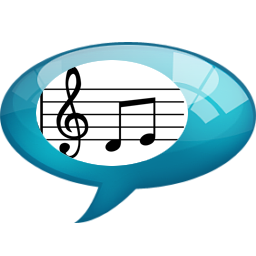
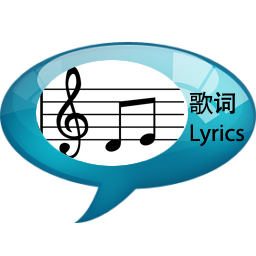
donate button lyric button

Changed region(s): [[0.7188, 0.3438, 0.9375, 0.4688], [0.7188, 0.4688, 0.9688, 0.5938]]

diff --git a/index.html b/index.html
@@ -82,8 +82,8 @@
 <div id="subtitlenav">
   <ul>
     
-    <li><a href="https://github.com/ganlinzhiyin/ganlinzhiyin.github.com/raw/master/%E6%AD%8C%E8%AF%8D%20Lyrics.zip" rel="bookmark" title="Download英文歌词"><span style="font-family : Arial, Helvetica, sans-serif;color: #ffc641;"></span><br /><span style="font-family : Arial, Helvetica, sans-serif;color: #55BAC6;"> 歌词 Lyrics<br /><BUTTON TYPE="submit"><img src="speech bubble.png" width="107" height="99" border="0" align="absmiddle"></BUTTON></span></li>
-    <li><a href="http://github.com/ganlinzhiyin/ganlinzhiyin.github.com/raw/master/ganlinzhiyin.zip" rel="bookmark" title="Download Album"><span style="font-family : Arial, Helvetica, sans-serif;color: #55BAC6;">买专辑</span><br /><span style="font-family : Arial, Helvetica, sans-serif;color: #ffc641;">Buy<br />Album</a></li>
+    <li><a href="https://github.com/ganlinzhiyin/ganlinzhiyin.github.com/raw/master/%E6%AD%8C%E8%AF%8D%20Lyrics.zip" rel="bookmark" title="Download英文歌词"><span style="font-family : Arial, Helvetica, sans-serif;color: #ffc641;"></span><br /><span style="font-family : Arial, Helvetica, sans-serif;color: #55BAC6;"> <br /><BUTTON TYPE="submit"><img src="speech bubble.png" width="85" height="72" border="0" align="absmiddle"></BUTTON></span></li>
+    <li><a href="http://github.com/ganlinzhiyin/ganlinzhiyin.github.com/raw/master/ganlinzhiyin.zip" rel="bookmark" title="Download Album"><span style="font-family : Arial, Helvetica, sans-serif;color: #55BAC6;"></span><br /><span style="font-family : Arial, Helvetica, sans-serif;color: #ffc641;"><BUTTON TYPE="submit"><img src="donate button.png" width="93" height="42" border="0" align="absmiddle"></BUTTON><br /></a></li>
   </ul>
 </div>
 </div>
